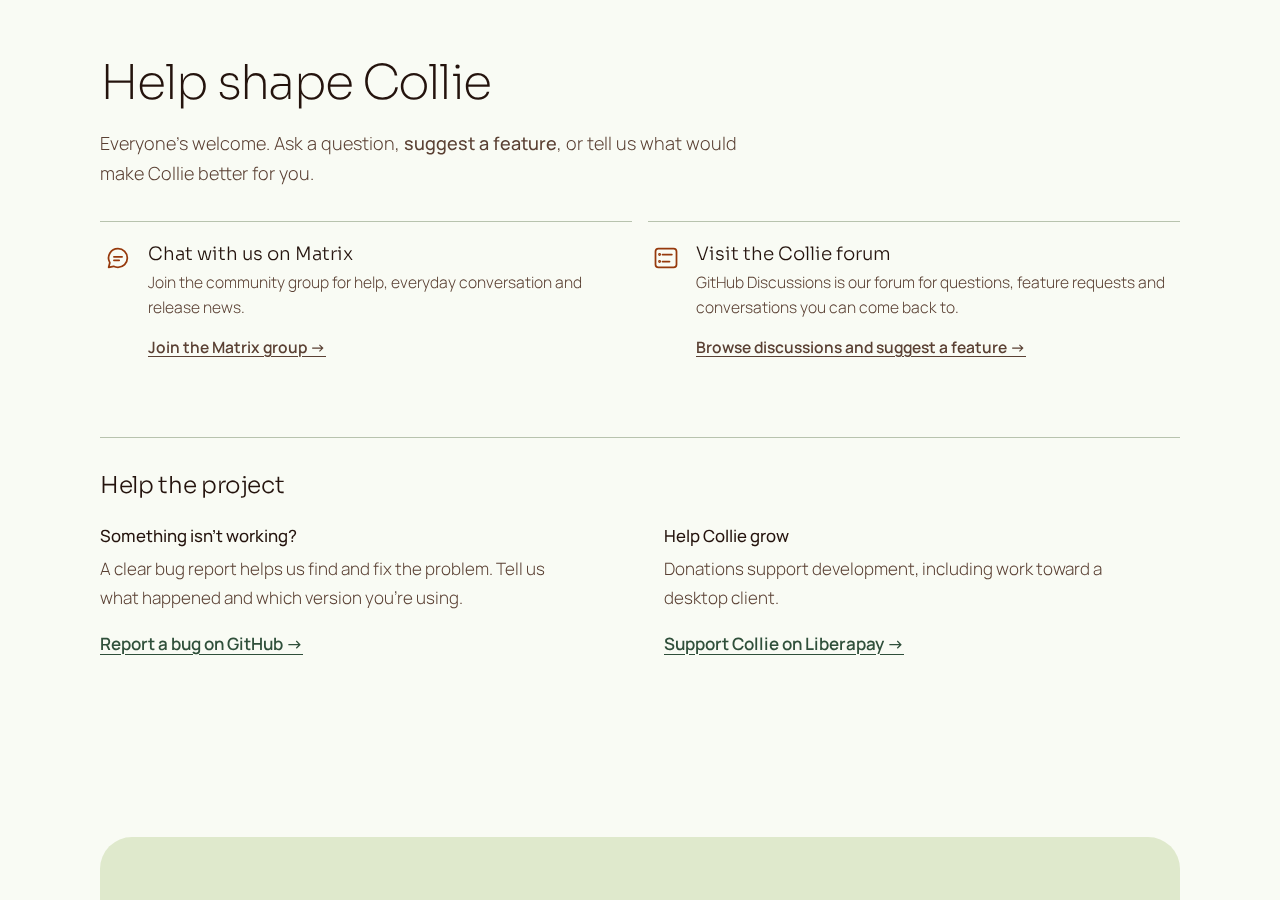
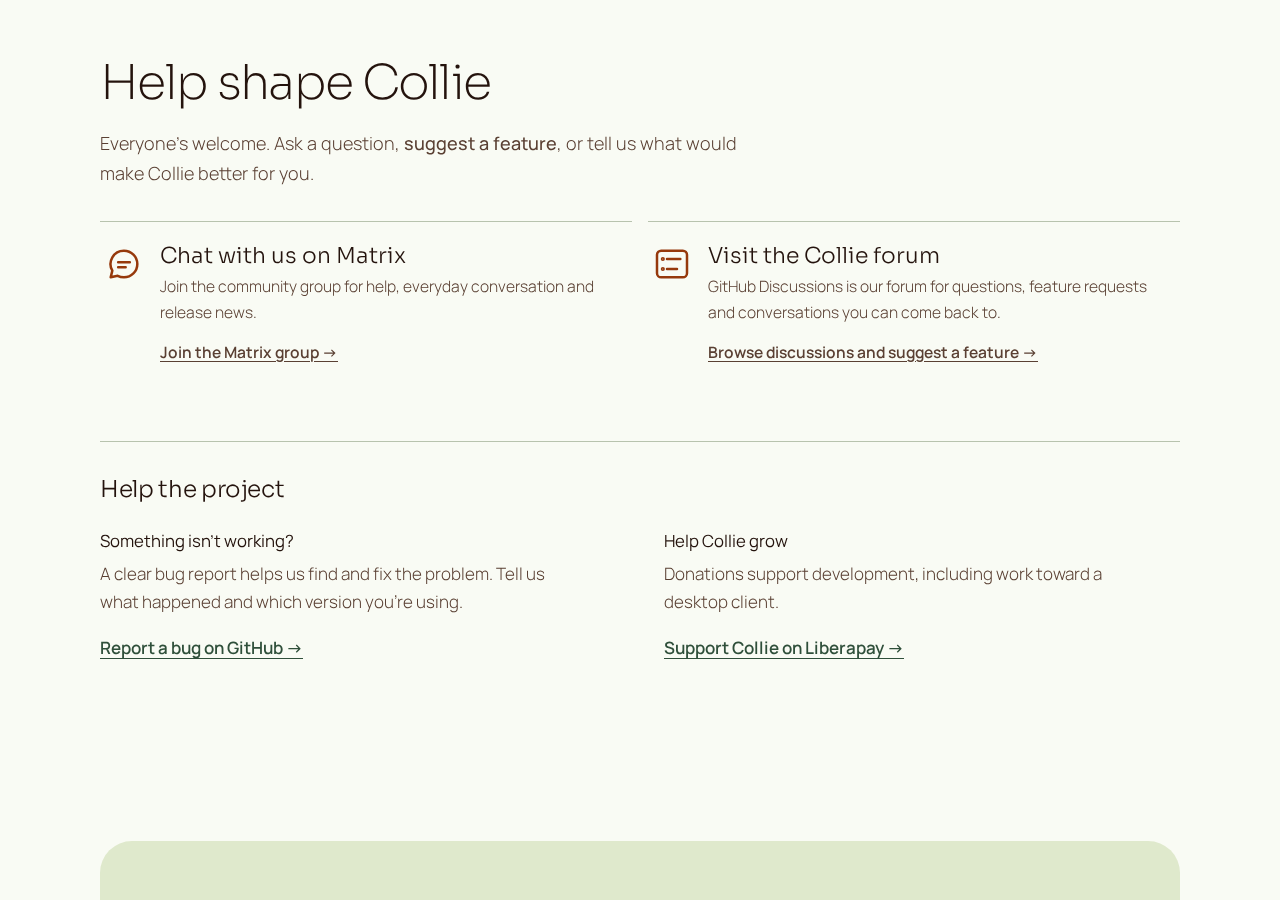
Record current hierarchy and clean phone curve evidence
Capture affected feature, community and phone views plus page-top evidence. Preserve measured bounds, raw cream-band pixels and unchanged-view comparisons for independent review.

Layer: website

diff --git a/docs/screenshots/pr-95/README.md b/docs/screenshots/pr-95/README.md
@@ -1,6 +1,6 @@
 # Current Collie website review set
 
-Implementation source is signed `b1baba8fbc0906b3470ca3db3fea2591a2200370`; review the containing evidence commit as one candidate. Fresh native assets remain in `555fff83a6b7e8f5b8de89f522859f250a166b5f`. No score is supplied by the implementation owner.
+Implementation source is signed `4a954f19b0b02056a5bce33d5d3515cbeb9bd308`; review the containing evidence commit as one candidate. Fresh native assets remain in `555fff83a6b7e8f5b8de89f522859f250a166b5f`. No score is supplied by the implementation owner.
 
 ## Current affected views
 
@@ -10,15 +10,19 @@ Implementation source is signed `b1baba8fbc0906b3470ca3db3fea2591a2200370`; revi
 | Phone introduction | [about-mobile.png](about-mobile.png) | 390 × 844 |
 | Narrow features | [features-narrow-light.png](features-narrow-light.png) | 320 × 1300 |
 | Narrow introduction | [about-narrow-light.png](about-narrow-light.png) | 320 × 844 |
-| Unchanged desktop features | [features-desktop-light.png](features-desktop-light.png) | 1280 × 1000 |
+| Desktop features | [features-desktop-light.png](features-desktop-light.png) | 1280 × 1000 |
 | Unchanged tablet features | [features-tablet-light.png](features-tablet-light.png) | 768 × 1300 |
 
-These six are actual browser renders of the existing build HTML, CSS, embedded original fonts and image bytes in a fixed-size iframe via T3 `html_preview`. They are **source renders**, not live-tab screenshots. Only resource URLs are embedded; a capture script waits for fonts and scrolls to the requested existing section. No page layout, content, colors or assets are reconstructed or changed. Visible images reported loaded, fonts reported loaded, and actual iframe widths matched all four requested widths. This renderer uses overlay scrollbars and DPR 1; its usable width equals its viewport width. The last live T3 browser reserved 15px for a scrollbar and used DPR 2. Both measurements are reported separately below. Current and previous-source feature renders at 768 and 1280 are byte-for-byte identical in the same renderer.
+These six are actual browser renders of the existing build HTML, CSS, embedded original fonts and image bytes in a fixed-size iframe via T3 `html_preview`. They are **source renders**, not live-tab screenshots. Only resource URLs are embedded; a capture script waits for fonts and scrolls to the requested existing section. No page layout, content, colors or assets are reconstructed or changed. Visible images reported loaded, fonts reported loaded, and actual iframe widths matched all four requested widths. This renderer uses overlay scrollbars and DPR 1; its usable width equals its viewport width. The last live T3 browser reserved 15px for a scrollbar and used DPR 2. Both measurements are reported separately below. Current phone features at 320/390, tablet features at 768 and desktop hero at 1280 are byte-for-byte identical to 2917bdc27ad5 in the same renderer. Desktop feature text reflow is intentionally different.
 
 ## Current remaining key views
 
 | View | Screenshot | Actual iframe CSS viewport / PNG dimensions |
 | --- | --- | --- |
+| Phone page top | [page-top-mobile-light.png](page-top-mobile-light.png) | 390 × 844, scrollY0 |
+| Narrow page top | [page-top-narrow-light.png](page-top-narrow-light.png) | 320 × 844, scrollY0 |
+| Narrow hero phones/curve | [hero-narrow-light.png](hero-narrow-light.png) | 320 × 844 |
+| Narrow community | [community-narrow-light.png](community-narrow-light.png) | 320 × 1500 |
 | Hero | [desktop-light.png](desktop-light.png) | 1280 × 800 |
 | Hero phones | [mobile-light.png](mobile-light.png) | 390 × 844 |
 | Upcoming plans | [upcoming-desktop-light.png](upcoming-desktop-light.png) | 1280 × 900 |
@@ -29,13 +33,25 @@ These six are actual browser renders of the existing build HTML, CSS, embedded o
 | Phone downloads | [light](downloads-mobile-light.png) · [dark](downloads-mobile-dark.png) | 390 × 1100 |
 | Phone footer | [light](footer-mobile-light.png) · [dark](footer-mobile-dark.png) | 390 × 844 |
 
-These twelve use the same exact-source renderer, native overlay-scrollbar environment and DPR 1 as the six affected views. CSS animations are finished through their native animation API before capture, showing their actual final state. The phone hero is scrolled with the stage top 80px below the viewport top to keep all cases visible beneath the 56px sticky header. Every capture reports the requested actual width, loaded fonts and visible images, expected light/dark media and no horizontal overflow. Built CSS bytes exactly match signed production source.
+These key views use the same exact-source renderer, native overlay-scrollbar environment and DPR 1 as the six affected views. CSS animations are finished through their native animation API before capture, showing their actual final state. The phone hero is scrolled with the stage top 80px below the viewport top to keep all cases visible beneath the 56px sticky header. Every capture reports the requested actual width, loaded fonts and visible images, expected light/dark media and no horizontal overflow. Built CSS bytes exactly match signed production source.
 
 Exported hero pixels match source colors without recoloring: at (120,590), inside the primary button, RGB 242/152/43 is source #F2982B; at (20,100), bark RGB 36/19/13 is source #24130D. These were sampled from the 1280×800 PNG using `ffmpeg -vf 'format=rgb24,crop=1:1:X:Y' -frames:v 1 -f rawvideo - | od -An -tu1`. Current key review views therefore need no pink/orange capture caveat. Contrast checks below remain computed-CSS measurements with their original scope.
 
 Exact capture-helper source is retained in [render-source.py.txt](render-source.py.txt). It reads the existing static build, embeds original resources, wraps it in a fixed-size iframe and logs readiness/position evidence. Invocation was `python3 render-exact.py WIDTH HEIGHT SECTION`, followed by T3 `html_preview` with the resulting exact-render.html path, matching width and light/dark appearance. PNG data was saved directly without processing. Sections are existing IDs, or hero/phones/footer for their existing class selectors.
 
-Supporting images not listed in either current table retain their actual live T3 captures packaged in c2a7b7c647de24fa50185f84b29fe141aaa6d931: desktop introduction, narrow header, open/closed menu, narrow dark community, dark hero/phones and Obtainium handoff. Their source appearance is unchanged, but their pixels are not relabelled as fresh. Those older exports can shift orange into pink, a discrepancy measured in PNG pixels. Live screenshot/recording transport later timed out across callers and reported an unavailable automation host. Cached Chromium failed before CDP under the host allocator; its installed child-only standard-allocator wrapper was denied by the execution context. No browser was installed and no system security policy changed.
+Current affected views (desktop feature, community desktop/390/320, phone curves 390/320 and phone page tops 390/320) are freshly rendered from signed 4a954f19b0b0. Other key source renders retain 2917bdc27ad5 provenance; their own component appearance is unchanged. Feature phone 320/390 and tablet 768 renders, plus desktop hero 1280, were rendered again and their PNG bytes match 2917 exactly. Downloads/footer and roadmap retain the existing approved component source; community type changes only move them lower in the document.
+
+Supporting older live captures retain c2a7b7c647de24fa50185f84b29fe141aaa6d931 provenance. Menu, narrow header, desktop introduction, dark desktop hero and Obtainium appearance remain unchanged. **mobile-dark.png and community-narrow-dark.png are historical and superseded** by current mobile-light.png, hero-narrow-light.png, community-mobile-dark.png and community-narrow-light.png; do not use them to judge current curve/hierarchy. Older live exports can shift orange into pink. Current key source renders preserve source colors. Live screenshot/recording transport timed out across callers and reported an unavailable automation host. No browser was installed and no system security policy changed.
+
+## Latest verified review fixes
+
+| Finding | Disposition and measured evidence | Focused change |
+| --- | --- | --- |
+| Desktop lead body leaves a blank right region | Valid; card 714.66×408, body capped 460px, facts 640.66px. Blank interior strip 180.66px, or 217.66px including padding; 40% estimate was high. | Above 860px body now shares facts width 640.66px. Card stays 408px high; longest text line ends 51.66px from card edge. No phone/tablet feature change. |
+| Matrix/forum do not sufficiently outrank help subheads | Valid; titles 18.4px vs help 16.8px (1.095×), icons 28px. | Titles 22px (1.31× help), icons 40px without shrink; Help weight 400. Copy and underlined links preserved. |
+| Phone shadow spills onto cream | Valid; old 390 center y465 RGB 208/210/204 and y480 RGB 236/238/231. | Phone-only curve stacking paints cream above shadows. Full-width40px strips now uniformly RGB 249/251/244: 390 y487–526, 320 y417–456, after antialiased edge. Desktop hero PNG unchanged. |
+
+Optional notification spacing was left unchanged to preserve the compact feature list. Roadmap preamble and installation copy were retained. No native run occurred; optional real offline demo imagery awaits explicit disk-WARN approval. No synthetic conversation image was fabricated.
 
 ## Product requirements to preserve
 
@@ -51,7 +67,7 @@ Plans come from the existing `upcoming-planned-features` Discussions category, r
 
 The roadmap renderer maps stable discussion numbers to concise display titles. Unknown titles retain their wording after removing editorial prefixes such as High Priority or bracketed tags. Escaping happens after display-title selection. A separate Priority badge comes only from the label, never title text. All eight discussion URLs are unchanged. Priority title weight is 600; ordinary plan titles are 500. The two-column grid reads across rows; mobile uses one column. The notifications introduction and italic planned-work disclaimer are unchanged. The gap from the roadmap follow-up links to the community heading is now 64 CSS px.
 
-Only below 600px, the five secondary feature cards now form a compact list: 40px icons sit beside titles, body text aligns beneath titles, and the existing rule color separates items. Their card backgrounds, outlines, radii and inner padding are removed. Every word and link is retained. The encryption lead is unchanged. The intro heading is 24px against the 32px feature heading (75%), with the source/security disclosure visible in both introduction captures. At 768px and above, cards and typography are unchanged.
+Only below 600px, the five secondary feature cards now form a compact list: 40px icons sit beside titles, body text aligns beneath titles, and the existing rule color separates items. Their card backgrounds, outlines, radii and inner padding are removed. Every word and link is retained. The encryption lead is unchanged. The intro heading is 24px against the 32px feature heading (75%), with the source/security disclosure visible in both introduction captures. The compact-list change remains phone-only; the latest separate desktop explanation reflow is described above.
 
 The lead feature retains its desktop two-column/two-row position and featured surface. Its 40px icon sits beside the heading; the approved explanation remains. Three short facts restate that explanation: Passphrase you choose; Locks after a set time; Stays encrypted if lost or stolen. A hairline separates the facts, and their row sits at the bottom. Smaller cards use one deliberate icon-to-heading gap rather than stacked padding and automatic margins. At phone widths up to 600px, the repeated facts and their divider are hidden; the approved paragraph already says the same thing. Wider screens retain the three facts. Phone spacing from the upcoming introduction to the italic note is 12px, and from that note to the list is 22px. No wording in either paragraph changed.
 
@@ -119,6 +135,8 @@ items.append(f'<li{item_class}>{badge}<a href="https://github.com/{repo}/discuss
 
 ## Measured browser checks
 
+The following live-T3 table predates the latest community typography change and is retained as historical geometry evidence, not a fresh measurement of downloads positions. Current source-render measurements follow it.
+
 | Actual CSS width | Horizontal overflow | Header | Downloads start, CSS px |
 | --- | --- | --- | --- |
 | 320 | none; document width 305 | 56px sticky | 5437.09 |
@@ -128,7 +146,7 @@ items.append(f'<li{item_class}>{badge}<a href="https://github.com/{repo}/discuss
 
 These live checks used actual `innerWidth`. At 390px, the five-item region shrank from 978px to 614.73px; at 320px, from 1150px to 732.62px. This counts first secondary item top through last item bottom, including gaps. The encryption lead remains exactly 279.73px at 390 and 306.93px at 320. Every title and body starts at x68, to the right of the icon at x16; wrapped titles never flow below the icon. The notification action measures 291×48px at 390 and 221×48px at 320. All six card rectangles match the previous source exactly at 768 and 1280.
 
-The source-render environment has no reserved scrollbar. At widths 320/390/768/1280, usable widths are likewise 320/390/768/1280, with no horizontal overflow and loaded fonts. Five-item heights are 661.63/566.69/644/668px; downloads start at 5219.22/4776.11/4188.48/3684.78px. This is an explicit environment difference, not a replacement for live measurements. Intro/feature headings are 24/32px on phones, 32/32px at 768, and 44/48px at1280. Current and baseline PNG bytes match exactly at both wider widths. The intro disclosure is visible in both phone introduction renders.
+The source-render environment has no reserved scrollbar. At widths 320/390/768/1280, usable widths are likewise 320/390/768/1280, with no horizontal overflow and loaded fonts. Five-item heights are 661.63/566.69/644/668px; downloads start at 5285.75/4785.45/4197.83/3689.45px. This is an explicit environment difference, not a replacement for live measurements. Intro/feature headings are 24/32px on phones, 32/32px at 768, and 44/48px at1280. Phone 320/390 and tablet 768 feature PNGs still match 2917 exactly; desktop 1280 feature paragraphs now use full width while card bounds remain unchanged. The intro disclosure is visible in both phone introduction renders.
 
 Native keyboard Tab from the brand reached Menu, Enter changed `aria-expanded` to true, and Escape restored false with focus on Menu. Outside-click closing passed. Each of the five actual menu links was clicked at both 390px and 768px. Every menu closed, and all headings landed below the header: heading tops ranged from 88.01px to 134.22px, with the header bottom at 56px. These position checks used automatic scrolling in the owned test tab to avoid measuring a smooth-scroll midpoint; source motion rules were unchanged. That Menu keyboard evidence applies to the unchanged navigation markup and JavaScript. In this scoped pass, the native summary was focusable and DOM activation opened and closed it. Later pointer transport timed out, and an instrumented Enter attempt produced no DOM keydown or keyup events; no fresh trusted-keyboard or pointer result is claimed from those failed transport calls.
 

diff --git a/docs/screenshots/pr-95/completion-audit.md b/docs/screenshots/pr-95/completion-audit.md
@@ -14,7 +14,7 @@ This is a factual requirement audit, not a design rating. Source and current ima
 | Actual hero/current pixels | Encryption stays in front, lock left, proxy right. Browser loads the new WebP hash. Current native hashes match signed 555fff83a6b7 and local-main signed bf7e38610090. |
 | Brand/live workflow | Solid hero; no CSS radial gradients. Fonts/palette/order unchanged. Existing localhost:8879 server retained. Impeccable 4.1.1 was present and used; no install/download. |
 | Narrow navigation | 56px persistent header, native button/ARIA state, existing section links and Escape/outside/link closing. Prior successful keyboard/anchor evidence is distinguished from later degraded input transport in README. |
-| Validation | 14 website tests passed; no overflow at actual 320/390/768/1280. Current intro/features, hero, roadmap, community and downloads/footer use exact built-source browser renders with verified fonts/images/media/viewport. Exported button/bark RGB matches source. Supporting older live captures retain original provenance. Selected contrast scope only; no whole-site AA assertion. |
+| Validation | 14 website tests passed; no overflow at actual 320/390/768/1280. Current intro/features, hero, roadmap, community and downloads/footer use exact built-source browser renders with verified fonts/images/media/viewport; latest affected groups/page tops are fresh, unchanged components retain explicit 2917 provenance. Exported button/bark RGB matches source. Supporting older live captures retain original provenance. Selected contrast scope only; no whole-site AA assertion. |
 | Local main |Only the two immutable image blobs were committed as bf7e386100905d5c5c03bb2f22cff480c647ebe4. Main was not pushed; unrelated .local/ and tools/ were preserved. |
 | Cleanup |Dedicated emulator-5562/AVD, temporary app tests and 47 generated build/cache directories removed. Emulator-5554 was untouched. Shared SDK/JDK/dependency caches and requested preview server retained. |
 
@@ -22,6 +22,9 @@ This is a factual requirement audit, not a design rating. Source and current ima
 
 | Finding | Disposition/confidence | Scoped result |
 | --- | --- | --- |
+| Desktop lead body cap | Valid, high | Above 860px body 460 to 640.66px; card remains 408px; text-to-card-edge 51.66px. |
+| Community primary hierarchy | Valid, high | Titles 22px vs help 16.8px, icons 40px; lighter Help, unchanged copy/links. |
+| Phone curve shadow spill | Valid, high | Full-width 40px bands are uniformly 249/251/244 at 390/320; desktop hero unchanged. |
 | Phone secondary cards are too tall | Valid, high | Below600 only: five visible list items with inline40px icons and aligned body text. Live390 region978 to614.73px; encryption lead unchanged. Wider feature PNGs are byte-identical to baseline. |
 | Phone introduction competes with features | Valid, high | Heading24px against32px features (75%); disclosure remains visible. |
 | Phone feature facts repeat the paragraph | Valid, high | Hidden with their divider only at widths up to 600px; desktop remains. |
